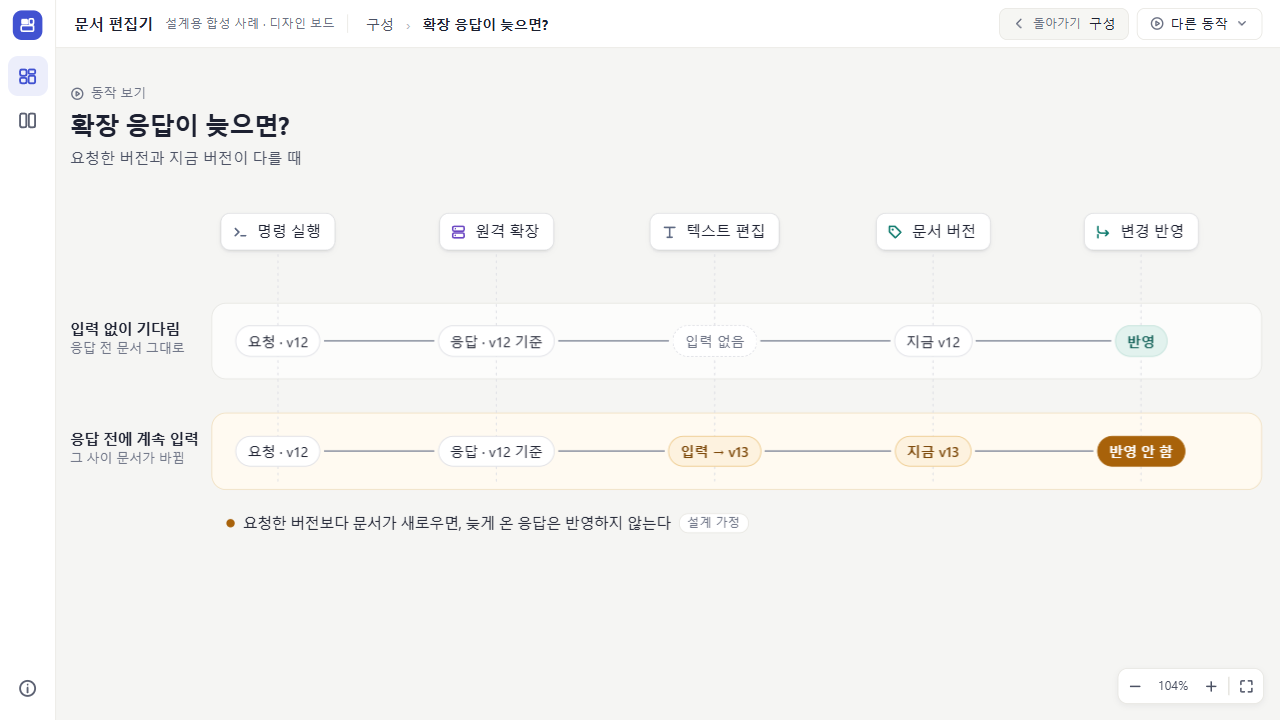
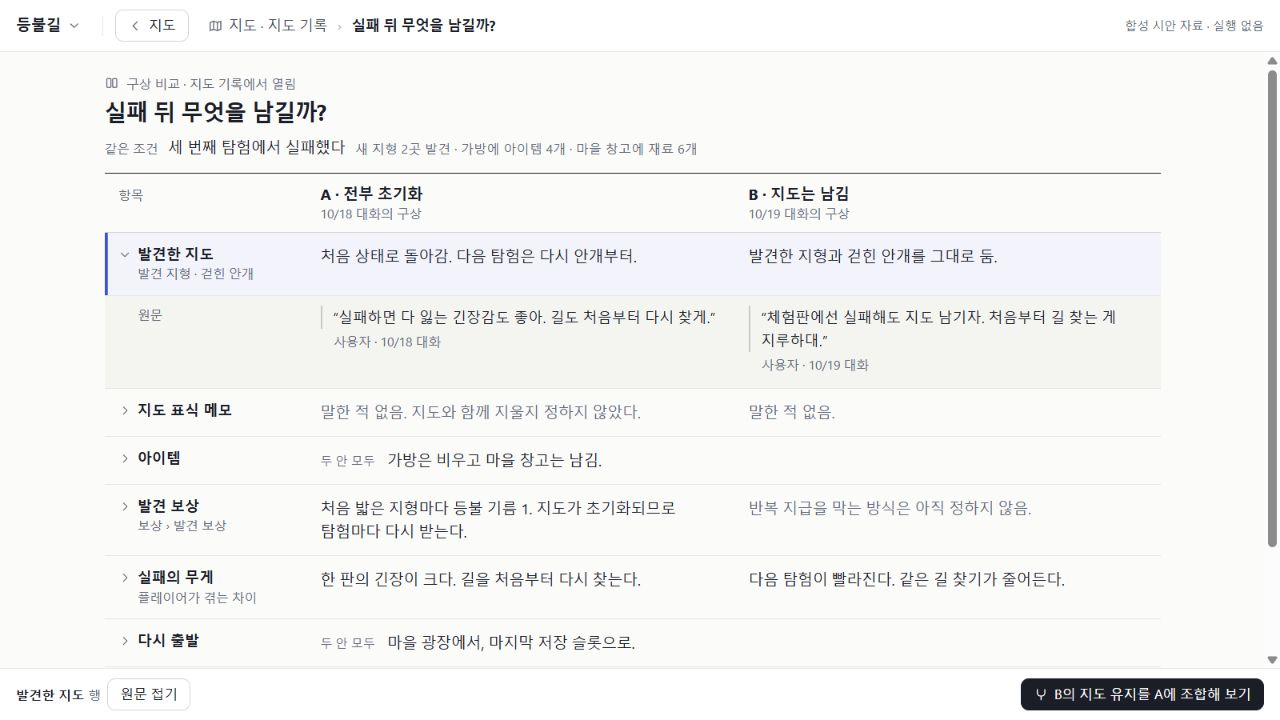
design: integrate interactive map, comparison and correction study

diff --git a/docs/cycles/ACTIVE.md b/docs/cycles/ACTIVE.md
@@ -1,5 +1,7 @@
 # AgentFlow 현재 상태
 
+**조작 시안49 · 2026-10-25:** [같은 공개 설계 URL](https://tlsee0813-cmd.github.io/agentflow-studio/design/software-map-study.html)에 등불길·예약 서비스·성긴 초기 구상의 구성→비교→조합→뜻 정정→초안→지도 복귀를 반영한다. 시안 소스 `05cded8200a62d202ef5bb4e954050dcaa438eca`, [단일 설계 v0.7 12절·부록G](../SOFTWARE_MAP_DESIGN_KO.md). 새 Opus5.5 High 구현과 두 좁은 후속을 회수했다. 총괄은 Windows1280/1440 직접 화면·휠·이동·층위·왕복을 확인하고 자유 정정 하드코딩, 관계선 제목 관통, 정정 버튼 Enter 가로채기를 재현·수정 확인했다. 별도 Work Sol6.1 High는 첨부 해시·정적 검토만 완료했으며 file 정책으로 화면 실행은 차단됐다. Cloud 실행 통과로 표시하지 않는다. 대표 PNG는 기존2개를 교체한다. 제품45·Workers·Pages 제품 런타임은 그대로이며, 자동 수집/기억/실행이나 일반 자동 배치 수용이 아니다. 다음 논의는 이 시안과 한 설계 문서에서 이어간다.
+
 **시각 정밀설계48 · 2026-10-25:** [단일 설계 v0.6](../SOFTWARE_MAP_DESIGN_KO.md)의12절을 개요→선택→내부→비교→뜻 정정→복귀의 한 흐름으로 구체화했다. 새 웹Pro3개와 기존 Opus N1 후속3·4를 회수하고, 정보의 등장·퇴장/한글 이름/면·선·색/가림·초점·스크롤/원문·초안 보존을 통합했다. 총괄은 기존 시안·Felt를1280에서 조작하고 Linear 공식 전후 이미지를 열람했다. 새12절의 구현·사용성 검증은 아니며, 치수와 하단 가림 처리는 다음 시안의 판정 대상이다. 공개 시안v0.3·제품45 유지, 새 기능·배포 없음. 다음은12.8의 같은 자료를 사용한 시각 비교이며 연구 문서를 다시 분산시키지 않는다.
 
 **새 관점 연구47 · 2026-10-25:** [단일 설계 v0.5](../SOFTWARE_MAP_DESIGN_KO.md) 1절·15절·부록E에 새 웹Pro6개와 새 Opus5.5 High2세션/후속 검토를 통합했다. 분류 전 생각의 함께보기, 같은 이용 장면의 국소 대안 비교·조합, 뜻 정정의 적용 범위와 파생 설명, 실제 산출물 입구를 선택했다. 현재 구상판·결정 장부·산출물 중심과 경쟁시켜 기준 구성+질문 장면을 유지·확장했다. 초기OSS 두 사례의 역할별 이름/구조 밖 목적 변화를 고정 소스로 대조했다. 모두 반환 완료이며 제품 구현·자동 기억·화면 효과 검증은 아니다. 공개 시안v0.3·수용 제품45 유지. 다음 설계 비교는 예약금/카드보증/단골 예외, 게임 실패 뒤 남기는 것, 데모 범위의 오해 정정 세 장면이다.

diff --git a/docs/QUESTIONS.md b/docs/QUESTIONS.md
@@ -1,6 +1,6 @@
 # 연구 질문과 축적된 근거
 
-48 표현 정밀화: [설계 v0.6 12절·부록F](SOFTWARE_MAP_DESIGN_KO.md)에 Q03/Q04/Q13의 포함·선택·카메라·복귀 표현과 Q05/Q07의 비교·뜻 정정을 같은 화면 문법으로 연결했다. 정보가 늘어도 카드 설명을 계속 추가하지 않고, 질문에 따라 중앙을 전환하며 원문은 대응 행 가까이 읽는다. 실제 타제품 관찰과 새 표현 제안을 구별했고 새 시안·자동 정리·입출력 구현은 하지 않았다.
+49 조작 시안: [설계 v0.7 12절·부록G](SOFTWARE_MAP_DESIGN_KO.md)와 같은 공개 HTML에서 Q03/Q04/Q13의 층위·선택·카메라 복귀, Q05/Q07의 같은 조건 비교·별도 조합·뜻 정정을 조작했다. 초안 왕복은 시안 안의 상태이며 실제 작업 전송이 아니다. 작은 하단 고정 띠를 선택했고 자유 정정과 파생 설명 불일치·키보드 진입을 수정했다. 실제 로그 자동 정리와 Q02/Q06의 수신·동일성 범위는 확장하지 않는다. 앞선48의 원출처는 부록F에 보존한다.
 
 47 새 관점 조사: [설계 v0.5 15절·부록E](SOFTWARE_MAP_DESIGN_KO.md)는 Q01/Q03의 분류 전 생각과 구성 관계, Q02의 역할별 이름, Q05/Q07의 해석 정정/새 요구 변경과 적용 범위, Q11/Q14의 다음 작업에 필요한 전제를 구체화했다. 같은 구성에서도 다른 제품 경험이 생기는 국소 대안 비교를 선택했다. 초기 공개OSS2건은 고정 소스 반례이며 연속 대화→자동 정리 검증이 아니다. 기존 질문 전수 구현이나 기억 서버·입출력 착수로 확대하지 않는다.
 
